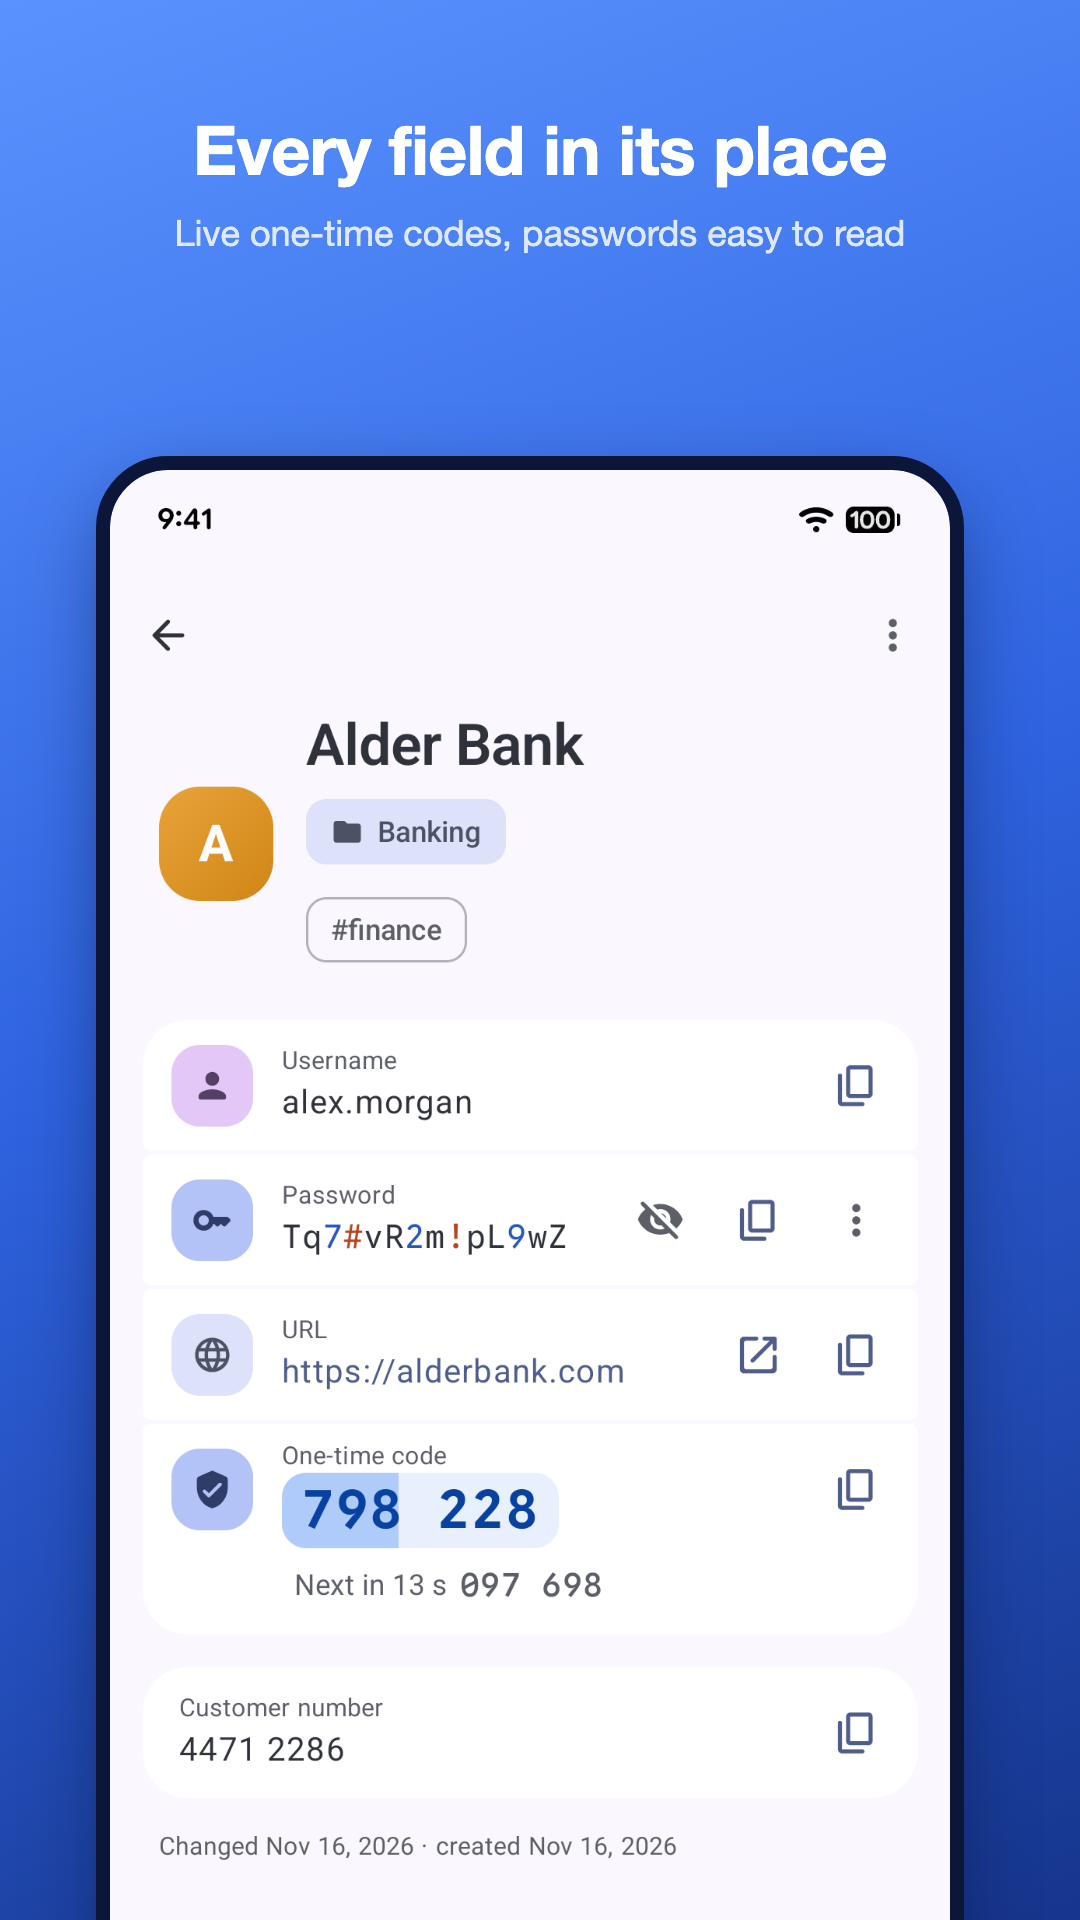
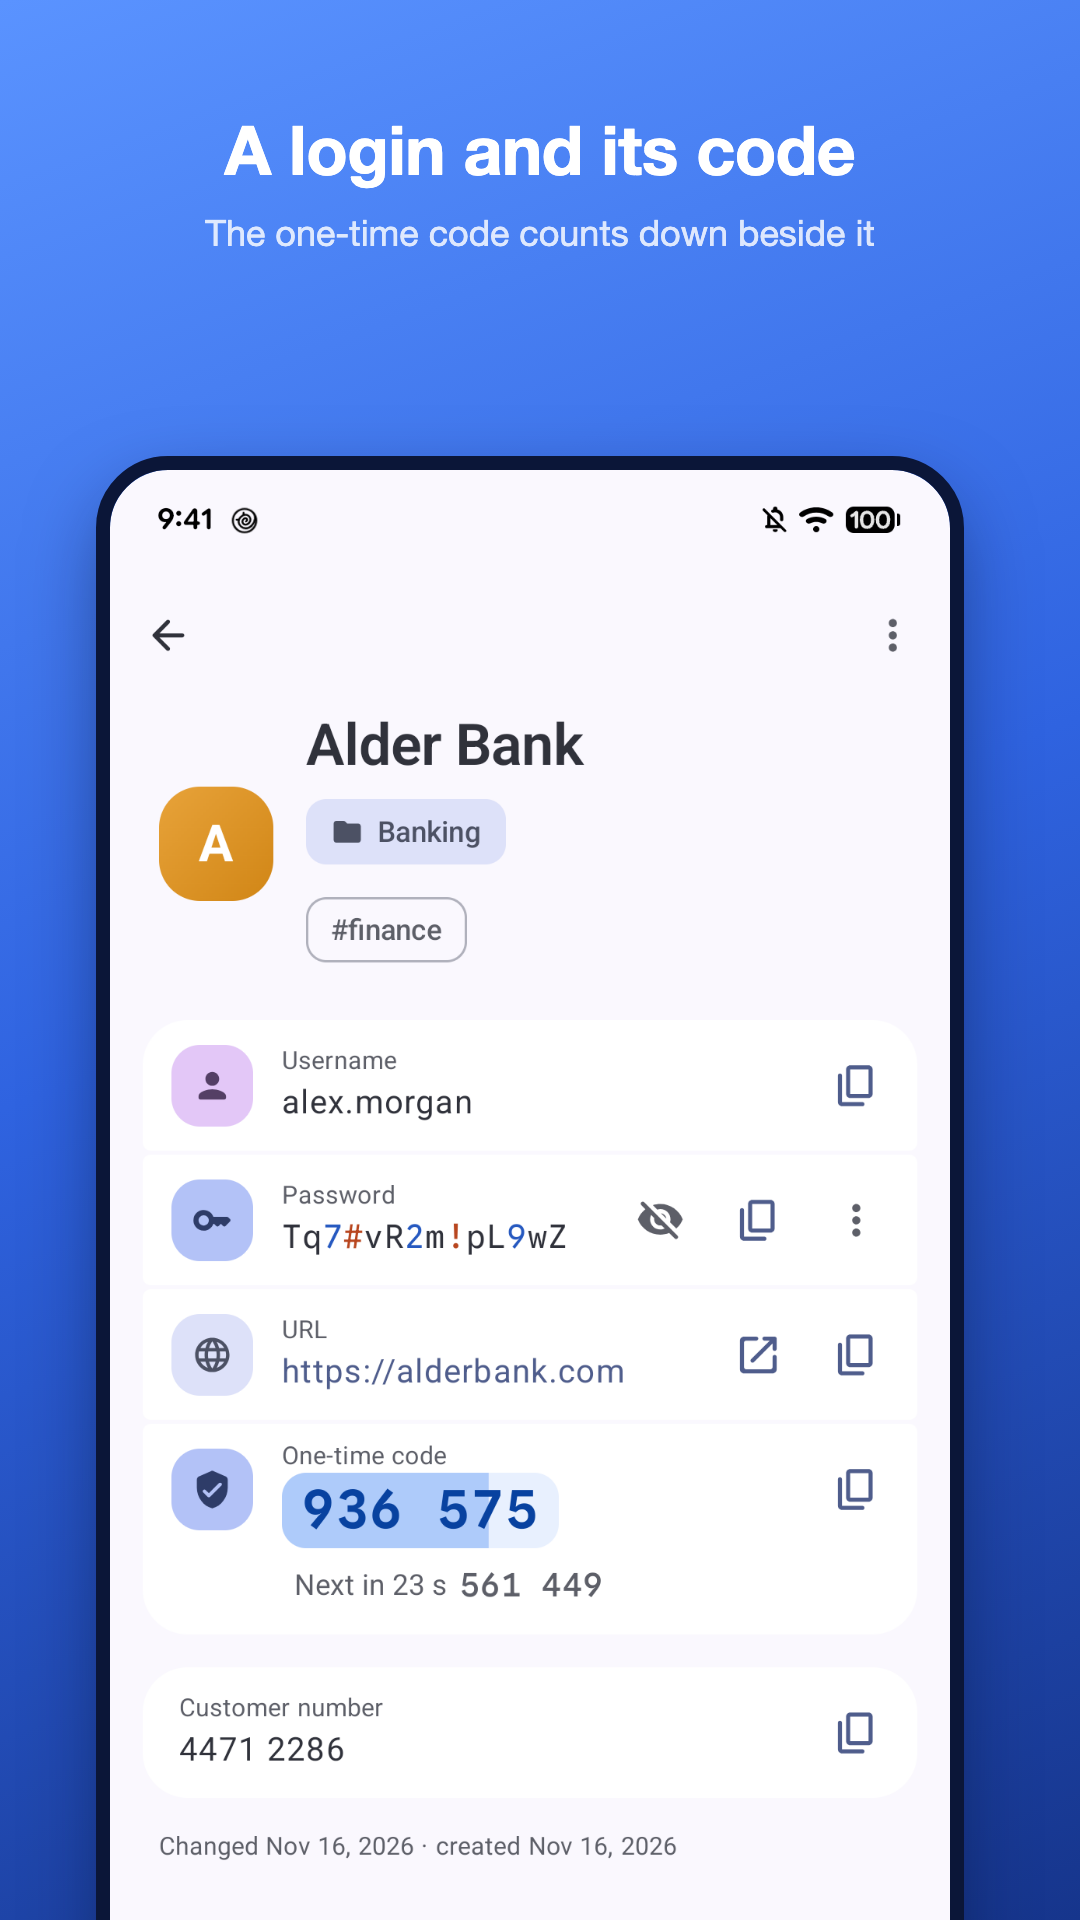
The listing's screenshots taken again and framed with plainer headlines (asked by the owner 2026-11-17, after the texts of 899c85c): "Your passwords, easy to read" / "A KeePass password manager for Android", "A login and its code" / "The one-time code counts down beside it", "Syncthing made two vers

diff --git a/tools/screens/frame.py b/tools/screens/frame.py
@@ -21,14 +21,14 @@ CHROME = "/Applications/Google Chrome.app/Contents/MacOS/Google Chrome"
 
 # File, headline, the line under it, and rows of the screenshot to leave out (a browser's address bar).
 SHOTS = [
-    ("1-list.png", "Your passwords, readable at a glance", "A modern KeePass client for Android", None),
-    ("2-card.png", "Every field in its place", "Live one-time codes, passwords easy to read", None),
+    ("1-list.png", "Your passwords, easy to read", "A KeePass password manager for Android", None),
+    ("2-card.png", "A login and its code", "The one-time code counts down beside it", None),
     ("3-card.png", "Cards look like cards", "Bank accounts, IDs, Wi-Fi and SSH logins too", None),
     ("4-wallet.png", "Recovery phrase: checked, never copied", "Each word checked against BIP-39", None),
     ("5-autofill.png", "Autofill in apps and browsers", "And “Save this password?” after you sign in", (118, 296)),
     ("6-codes.png", "All your 2FA codes in one place", "Each with the next one ready", None),
     ("7-share.png", "Share entries, end-to-end encrypted", "Checked with six pictures, no server involved", None),
-    ("8-sync.png", "Synced your way. Never lost.", "Two versions from Syncthing? Choose on the phone", None),
+    ("8-sync.png", "Syncthing made two versions?", "See both and pick one on the phone", None),
 ]
 
 FONT = "-apple-system, 'SF Pro Display', 'Helvetica Neue', sans-serif"
@@ -99,7 +99,7 @@ svg {{ flex: none; border-radius: 64px; box-shadow: 0 18px 50px rgba(5,14,45,.45
 h1 {{ margin: 0; font-size: 92px; font-weight: 700; letter-spacing: -1px; }}
 p {{ margin: 12px 0 0; font-size: 34px; line-height: 1.3; color: rgba(255,255,255,.86); }}
 </style><svg width="280" height="280" viewBox="18 18 72 72">{svg_layers()}</svg>
-<div><h1>Keething</h1><p>KeePass on Android that looks like it was made this year.</p></div>"""
+<div><h1>Keething</h1><p>A KeePass password manager for Android.</p></div>"""
 
 
 def main():
